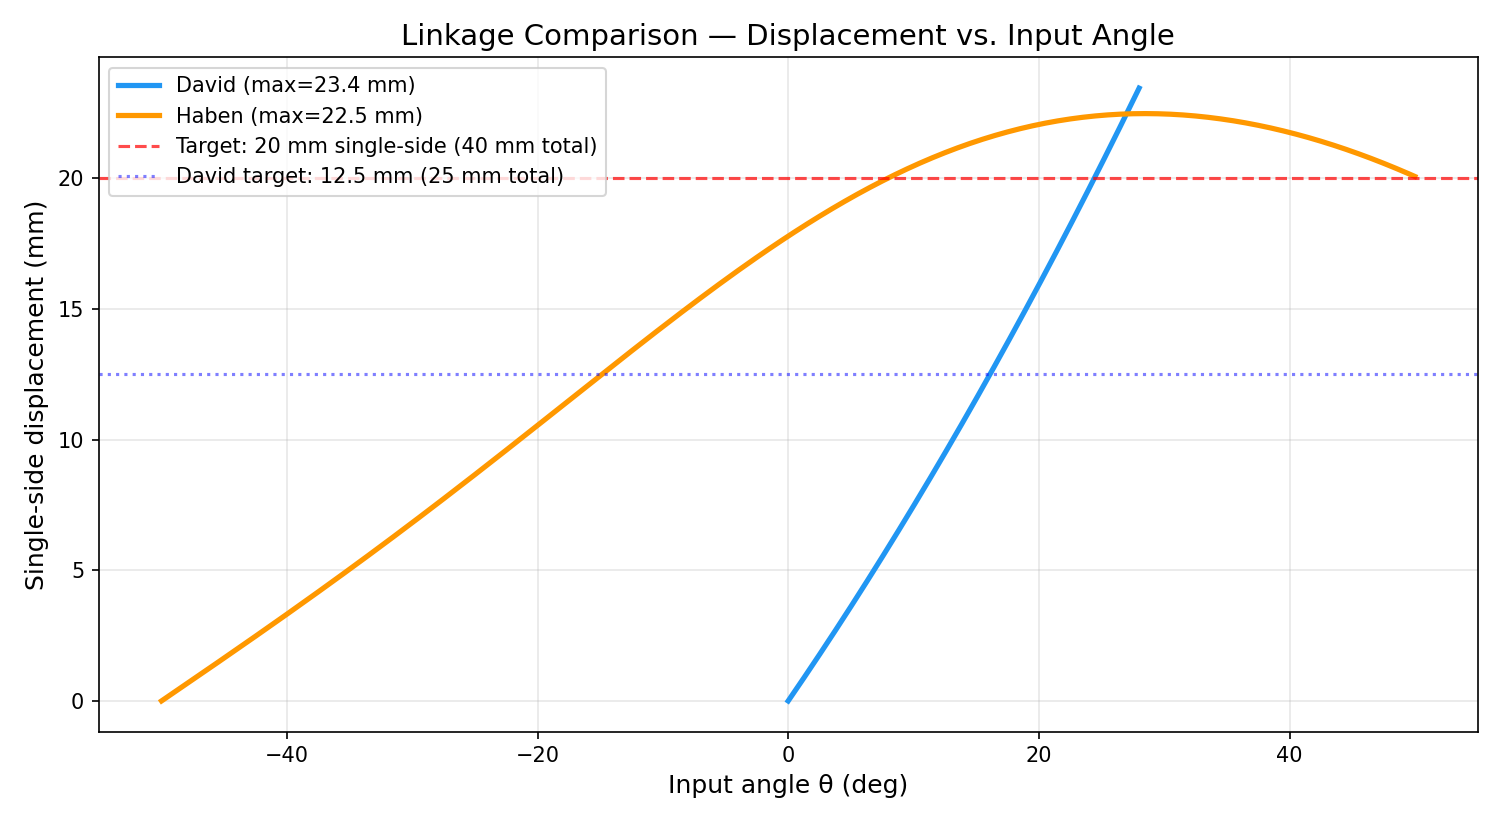
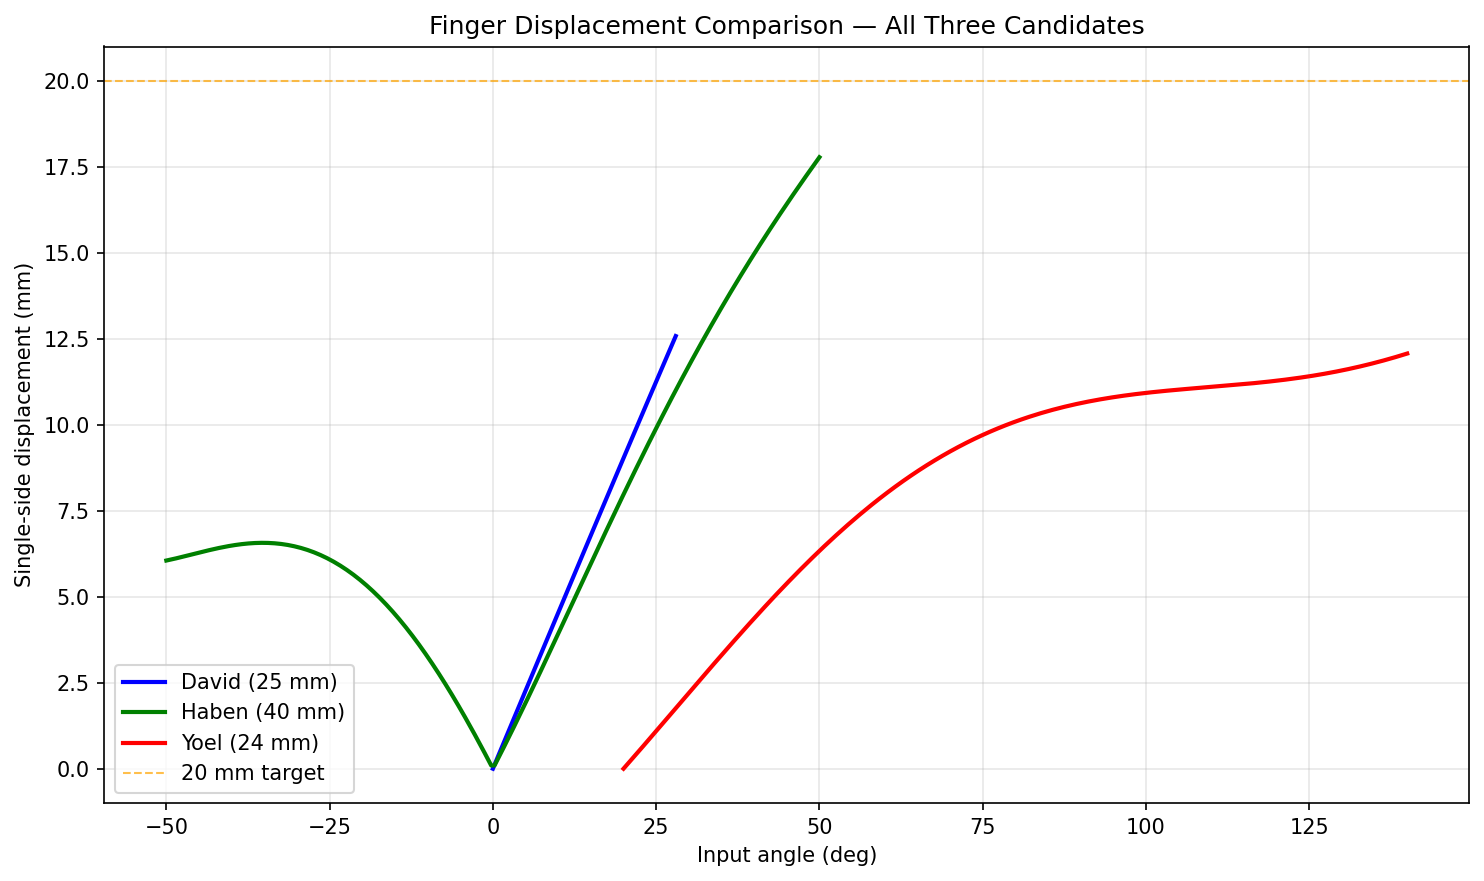
Integrate Yoel's MP4 Part A linkage data into Part B and MP5
Yoel's design: gear-and-connecting-rod four-bar (L1=30.59, L2=7, L3=28, L4=12)
- O4=(30,6), 30mm tip extension, input range 20-140 deg
- 12.0mm single-side displacement -> 24.0mm jaw opening
- Transmission angle 57-119 deg (17 deg margin above 40 deg floor)

MP4 Part B changes:
- Linkage Comparison: Yoel's row fully populated with design params
- Comparison plots regenerated with all 3 candidates
- Trust Assessment: Yoel's repo pointer updated with Part A data
- MP5 Handoff: Yoel's pointer updated
- Centaur Log: Loop 6 updated with actual Part A findings

MP5 changes:
- Pillar Narrative: Updated to reflect Yoel's late submission
- Slide Outline: Updated Yoel's Part A status

No change to team's linkage selection - Haben's design (40mm jaw)
remains the only candidate hitting the MP1 target.

diff --git a/MP4/Part B/MP4_PartB_Linkage_Comparison.md b/MP4/Part B/MP4_PartB_Linkage_Comparison.md
@@ -23,13 +23,13 @@ Section 1 design summary and Section 7 trust ledger.
 |--------|-------------------------|---------------------------|-------------------------------|-------------------------------------------------|------------------------------|--------------------------------|
 | David Ricciotti | 12 / 26 / 12 / 26 | (0, 12) | 12.5 | 25.0 | 62° / 90° | In band the whole time (22° margin above 40° floor). Symmetry assumption and gear-ratio-to-input-range mapping flagged as unverified. PLA pin wear at pivot joints (100+ cycle question from MP1). |
 | Haben Berhe | 47 / 20 / 29 / 23 | (47, 0) | 20.06 | 40.13 | 61.3° / 91.3° | In band the whole time (21.3° margin above 40° floor). Symmetry assumption unverified — counter-rotation depends on gear pair. Housing clearance near joint B and coupler path not yet checked. Pin tolerance and friction assumed ideal. |
-| Yoel Tesfatsion | _[No MP4 Part A submitted]_ | — | — | — | — | Yoel's repo ([YoelUW/ai-in-pd-spring2026](https://github.com/YoelUW/ai-in-pd-spring2026)) contains MP1–MP3 but no MP4 folder. His MP3 Part B focused on productizing the gear DFM review workflow (MCP RAG server + skill). No linkage design available for comparison. |
+| Yoel Tesfatsion | 30.59 / 7 / 28 / 12 | (30, 6) | 12.0 | 24.0 | 57° / 119° | In band the whole time (17° margin above 40° floor). Geometry tied to MiniClaw design package (7 mm crank, 12 mm jaw-link, 30 mm contact scale). Symmetry and gear synchronization flagged as unverified. Real PLA joint friction and pin clearance not checked. |
 
 ---
 
 ## Side-by-Side Plots
 
-Combined plots showing David's and Haben's candidate linkages on the same axes. Yoel did not submit an MP4 Part A notebook, so only two candidates are plotted.
+Combined plots showing all three candidate linkages on the same axes.
 
 **1. Single-side finger displacement vs. input angle:**
 
@@ -49,7 +49,7 @@ For each candidate, 2–3 sentence assessment:
 
 - **Linkage Haben Berhe:** Crossed-branch four-bar (L1=47, L2=20, L3=29, L4=23) with horizontal ground link and 100° sweep (−50° to +50°) — reaches 20.06 mm single-side displacement, meeting the 40 mm total jaw opening target exactly. Transmission angle (61.3°–91.3°) stays in band with 21.3° margin, nearly matching David's 22° margin. Wider input range (100° vs. 28°) gives finer positional control. Larger footprint (47 mm ground link), but still within the 92 mm housing width. For reference, the BigClaw uses a 4-bar linkage with crank=32 mm, coupler=28 mm, jaw arm=45 mm, ground=38 mm, achieving 0–86 mm range (per Haben's MP3 RAG query of BigClaw teardown data). Haben's ground link (47 mm) is proportionally larger than the BigClaw's (38 mm), but this is expected given the different topology (crossed-branch vs. BigClaw's parallelogram-like arrangement).
 
-- **Linkage Yoel Tesfatsion:** No MP4 Part A linkage design submitted. Yoel's repo contains MP1 (design brief), MP2 (context management), and MP3 (productized gear DFM review skill with MCP RAG server and CAD interaction on a 30T/m=0.8 gear). His MP3 work focused on the gear review workflow rather than linkage geometry. His gear DFM skill and trust ledger insights (SF ≥ 2.0 for printed gears, face width ≥ 5 mm, hub rib manufacturing trade-off) are referenced in the team's Gear Pair Design and DFM Checklist.
+- **Linkage Yoel Tesfatsion:** Gear-and-connecting-rod four-bar (L1=30.59, L2=7, L3=28, L4=12) with offset ground pivot at O4=(30,6) and 30 mm tip extension matching the MiniClaw design document's jaw-contact scale. Input range 20°–140° (120° sweep) yields 12.0 mm single-side displacement → 24.0 mm total jaw opening. Transmission angle 57°–119° stays in band with 17° margin above the 40° floor — the widest μ range of the three candidates. However, the 24 mm total jaw opening falls short of the 40 mm MP1 target, and the 7 mm crank with 120° sweep means the output motion is small relative to the input rotation. Yoel's MP3 gear DFM skill and trust ledger insights (SF ≥ 2.0 for printed gears, face width ≥ 5 mm, hub rib manufacturing trade-off) are referenced in the team's Gear Pair Design and DFM Checklist.
 
 ---
 

diff --git a/MP4/Part B/MP4_PartB_Team_Centaur_Log_Template.md b/MP4/Part B/MP4_PartB_Team_Centaur_Log_Template.md
@@ -135,13 +135,13 @@ the entry.
 > Clone Yoel's repo and read through all his MP1–MP4 work to extract linkage design parameters and any other relevant data for the Part B templates.
 
 **What we got back:**
-> Devin cloned the repo and found that Yoel has MP1 (design brief — same shared brief), MP2 (context management — RAG and information problem), and MP3 (Part A: tools/skills/conductor; Part B: productized gear DFM review skill with MCP RAG server, CAD interaction on a 30T/m=0.8 gear, reflection and trust ledger). There is no MP4 folder — Yoel did not submit a Part A linkage design. His MP3 Part B provided useful gear DFM context: SF ≥ 2.0 for printed gears, face width ≥ 5 mm, flat print orientation for in-plane tooth loading, and the hub rib manufacturing trade-off (he overrode the AI's rib suggestion because added ribs increase support-removal time and bore shrinkage at production scale).
+> Devin extracted Yoel's completed MP4 Part A package (submitted as a zip). His design: gear-and-connecting-rod four-bar (L1=30.59, L2=7, L3=28, L4=12) with O4=(30,6), 30 mm tip extension, input range 20°–140°. Achieves 12.0 mm single-side displacement (24.0 mm jaw opening) with transmission angle 57°–119° (17° margin above 40° floor). His geometry is tied to the MiniClaw design package (7 mm crank, 12 mm jaw-link, 30 mm contact scale). His MP3 Part B gear DFM context (SF ≥ 2.0, face width ≥ 5 mm, flat orientation) continues to validate the team's design.
 
 **Team assessment:**
-> The gap is real — Yoel doesn't have a linkage design to compare. But his MP3 gear DFM work independently validates the team's design choices: our 8 mm face width exceeds his 5 mm recommendation, our SF = 2.14 passes his SF ≥ 2.0 threshold, and we're already using flat print orientation. His hub simplicity decision aligns with our Ø8 hub / Ø3.40 bore design. The team decided to reference his contributions in the Gear Pair Design, DFM Checklist, and Pointers sections rather than leaving his entries blank.
+> Yoel's linkage achieves 24 mm jaw opening — closer to David's 25 mm than Haben's 40 mm. This confirms the team's selection of Haben's design, which is the only candidate hitting the 40 mm MP1 target. Yoel's wider μ range (57°–119°) shows his geometry is mechanically sound, but the short 7 mm crank limits displacement. His MP3 gear DFM recommendations continue to validate the team's 20T gear design (SF=2.14 > 2.0, face width 8 mm > 5 mm).
 
 **What changed:**
-> Linkage Comparison: Yoel's row updated from "awaiting notebook" to "No MP4 Part A submitted" with a summary of what his repo does contain. Comparison Notes include his MP3 contributions. Gear Pair Design and DFM Checklist reference his face width, SF, and print orientation recommendations. Trust Assessment and MP5 Handoff pointers updated with his repo URL and contribution summary.
+> Linkage Comparison: Yoel's row fully populated with his design parameters (L1=30.59, L2=7, L3=28, L4=12, 24 mm jaw, 57°–119° μ). Comparison plots regenerated with all three candidates. Comparison Notes updated with his design assessment. Trust Assessment and MP5 Handoff pointers updated.
 
 ---
 

diff --git a/MP5/MP5_Pillar_Narrative_Worksheet.md b/MP5/MP5_Pillar_Narrative_Worksheet.md
@@ -32,7 +32,7 @@ the team thinks the story through together before splitting up the deck.
 > In MP4 Part A, Devin initially designed David's linkage with a 40 mm jaw opening target and 0°–46° input range — confidently wrong parameters. When David provided his MP1 Part B brief and MP3 Part B evidence documents, the AI corrected to the actual 25 mm target with a 0°–28° range. Without that MP1/MP3 context, the design would have been built on incorrect requirements. Similarly, Yoel's MP3 gear DFM skill (built on ACME corpus documents ACME-ENG-001, ACME-MFG-002) confirmed that our gear face width (8 mm) exceeds the 5 mm minimum and our safety factor (2.14) passes the SF ≥ 2.0 threshold — grounded in project-specific data, not generic PLA properties.
 
 **Where context was missing:**
-> Haben's repo was initially private (403 Forbidden), so the first round of Part B integration couldn't reference his MP3 Part B data (ACME press-fit tolerances, BigClaw teardown dimensions, jaw arm lessons). Once the repo was made public, we extracted critical data: ACME-MFG-004 press-fit tolerances (0.10–0.15 mm structural), BigClaw reference dimensions (crank=32, coupler=28, jaw=45, ground=38 mm), and the SF ≥ 2.0 recommendation for printed gears. This data changed how we wrote the DFM checklist and trust assessment. Yoel's MP4 Part A was never submitted, so his linkage row remains empty — a real gap the team couldn't fill.
+> Haben's repo was initially private (403 Forbidden), so the first round of Part B integration couldn't reference his MP3 Part B data (ACME press-fit tolerances, BigClaw teardown dimensions, jaw arm lessons). Once the repo was made public, we extracted critical data: ACME-MFG-004 press-fit tolerances (0.10–0.15 mm structural), BigClaw reference dimensions (crank=32, coupler=28, jaw=45, ground=38 mm), and the SF ≥ 2.0 recommendation for printed gears. This data changed how we wrote the DFM checklist and trust assessment. Yoel's MP4 Part A was submitted late as a completed package — his gear-and-connecting-rod four-bar (24 mm jaw opening, μ=57°–119°) confirmed the team's selection of Haben's design as the only candidate hitting 40 mm.
 
 **What your team learned about managing context across MPs:**
 > Context that isn't in the AI's window doesn't exist to the AI. The single most impactful thing we did was feeding Devin the MP1 brief and MP3 evidence documents — that one action corrected the entire design basis. A junior engineer onboarding should learn: always provide the project requirements document before asking for design work. The AI will confidently build on wrong assumptions if you don't.

diff --git a/MP4/Part B/MP4_PartB_Trust_Assessment_Template.md b/MP4/Part B/MP4_PartB_Trust_Assessment_Template.md
@@ -125,7 +125,7 @@ explicit paths:
 
 - Chosen Part A linkage source: Haben Berhe's `MP4_PartA_Build_to_Verify_completed.ipynb` ([hab27/ai-in-pd-spring2026](https://github.com/hab27/ai-in-pd-spring2026))
 - David Ricciotti's Part A: `MP4/Part A/MP4_PartA_Build_to_Verify.ipynb` ([DavidR734/ai-in-pd-spring2026-2](https://github.com/DavidR734/ai-in-pd-spring2026-2))
-- Yoel Tesfatsion's repo: [YoelUW/ai-in-pd-spring2026](https://github.com/YoelUW/ai-in-pd-spring2026) (MP1–MP3 only; no MP4 Part A — gear DFM skill and RAG server from MP3 Part B inform the team's design)
+- Yoel Tesfatsion's repo: [YoelUW/ai-in-pd-spring2026](https://github.com/YoelUW/ai-in-pd-spring2026) (MP1–MP3 + MP4 Part A: gear-and-connecting-rod four-bar, L1=30.59/L2=7/L3=28/L4=12, 24 mm jaw opening, μ=57°–119°; gear DFM skill and RAG server from MP3 Part B inform the team's design)
 - Linkage Comparison Worksheet: `MP4/Part B/MP4_PartB_Linkage_Comparison.md`
 - Drive-Train Design Worksheet: `MP4/Part B/MP4_PartB_Gear_Pair_Design.md`
 - DFM Checklist: `MP4/Part B/MP4_PartB_DFM_Checklist.md`

diff --git a/MP4/Part B/MP4_PartB_MP5_Handoff_Template.md b/MP4/Part B/MP4_PartB_MP5_Handoff_Template.md
@@ -91,4 +91,4 @@ For the MP5 portfolio narrative — link, don't copy:
 - Team Centaur Log: `MP4/Part B/MP4_PartB_Team_Centaur_Log_Template.md`
 - David Ricciotti's Part A: [DavidR734/ai-in-pd-spring2026-2 — MP4/Part A/MP4_PartA_Build_to_Verify.ipynb](https://github.com/DavidR734/ai-in-pd-spring2026-2/blob/main/MP4/Part%20A/MP4_PartA_Build_to_Verify.ipynb)
 - Haben Berhe's Part A: [hab27/ai-in-pd-spring2026](https://github.com/hab27/ai-in-pd-spring2026)
-- Yoel Tesfatsion's repo: [YoelUW/ai-in-pd-spring2026](https://github.com/YoelUW/ai-in-pd-spring2026) (contains MP1–MP3; no MP4 Part A submitted — Yoel's MP3 Part B gear DFM skill and RAG server inform the team's gear design and DFM checklist)
+- Yoel Tesfatsion's repo: [YoelUW/ai-in-pd-spring2026](https://github.com/YoelUW/ai-in-pd-spring2026) (MP1–MP3 + MP4 Part A: gear-and-connecting-rod four-bar, L1=30.59/L2=7/L3=28/L4=12, 24 mm jaw opening, μ=57°–119°; gear DFM skill from MP3 informs team design)

diff --git a/MP5/MP5_Slide_Outline_Optional.md b/MP5/MP5_Slide_Outline_Optional.md
@@ -61,7 +61,7 @@ The AI designed to wrong requirements (40 mm / 46° range) until David fed it th
 
 **Where context was missing:**
 
-Haben's repo was private → 403 error. Once public, we extracted ACME press-fit tolerances, BigClaw teardown dimensions, and the SF ≥ 2.0 standard. Yoel's MP4 Part A was never submitted — his linkage row is empty.
+Haben's repo was private → 403 error. Once public, we extracted ACME press-fit tolerances, BigClaw teardown dimensions, and the SF ≥ 2.0 standard. Yoel's MP4 Part A was submitted late — his linkage (24 mm jaw, μ=57°–119°) confirmed Haben's design as the right selection.
 
 *Visual: before/after parameter table showing the context correction*
 
